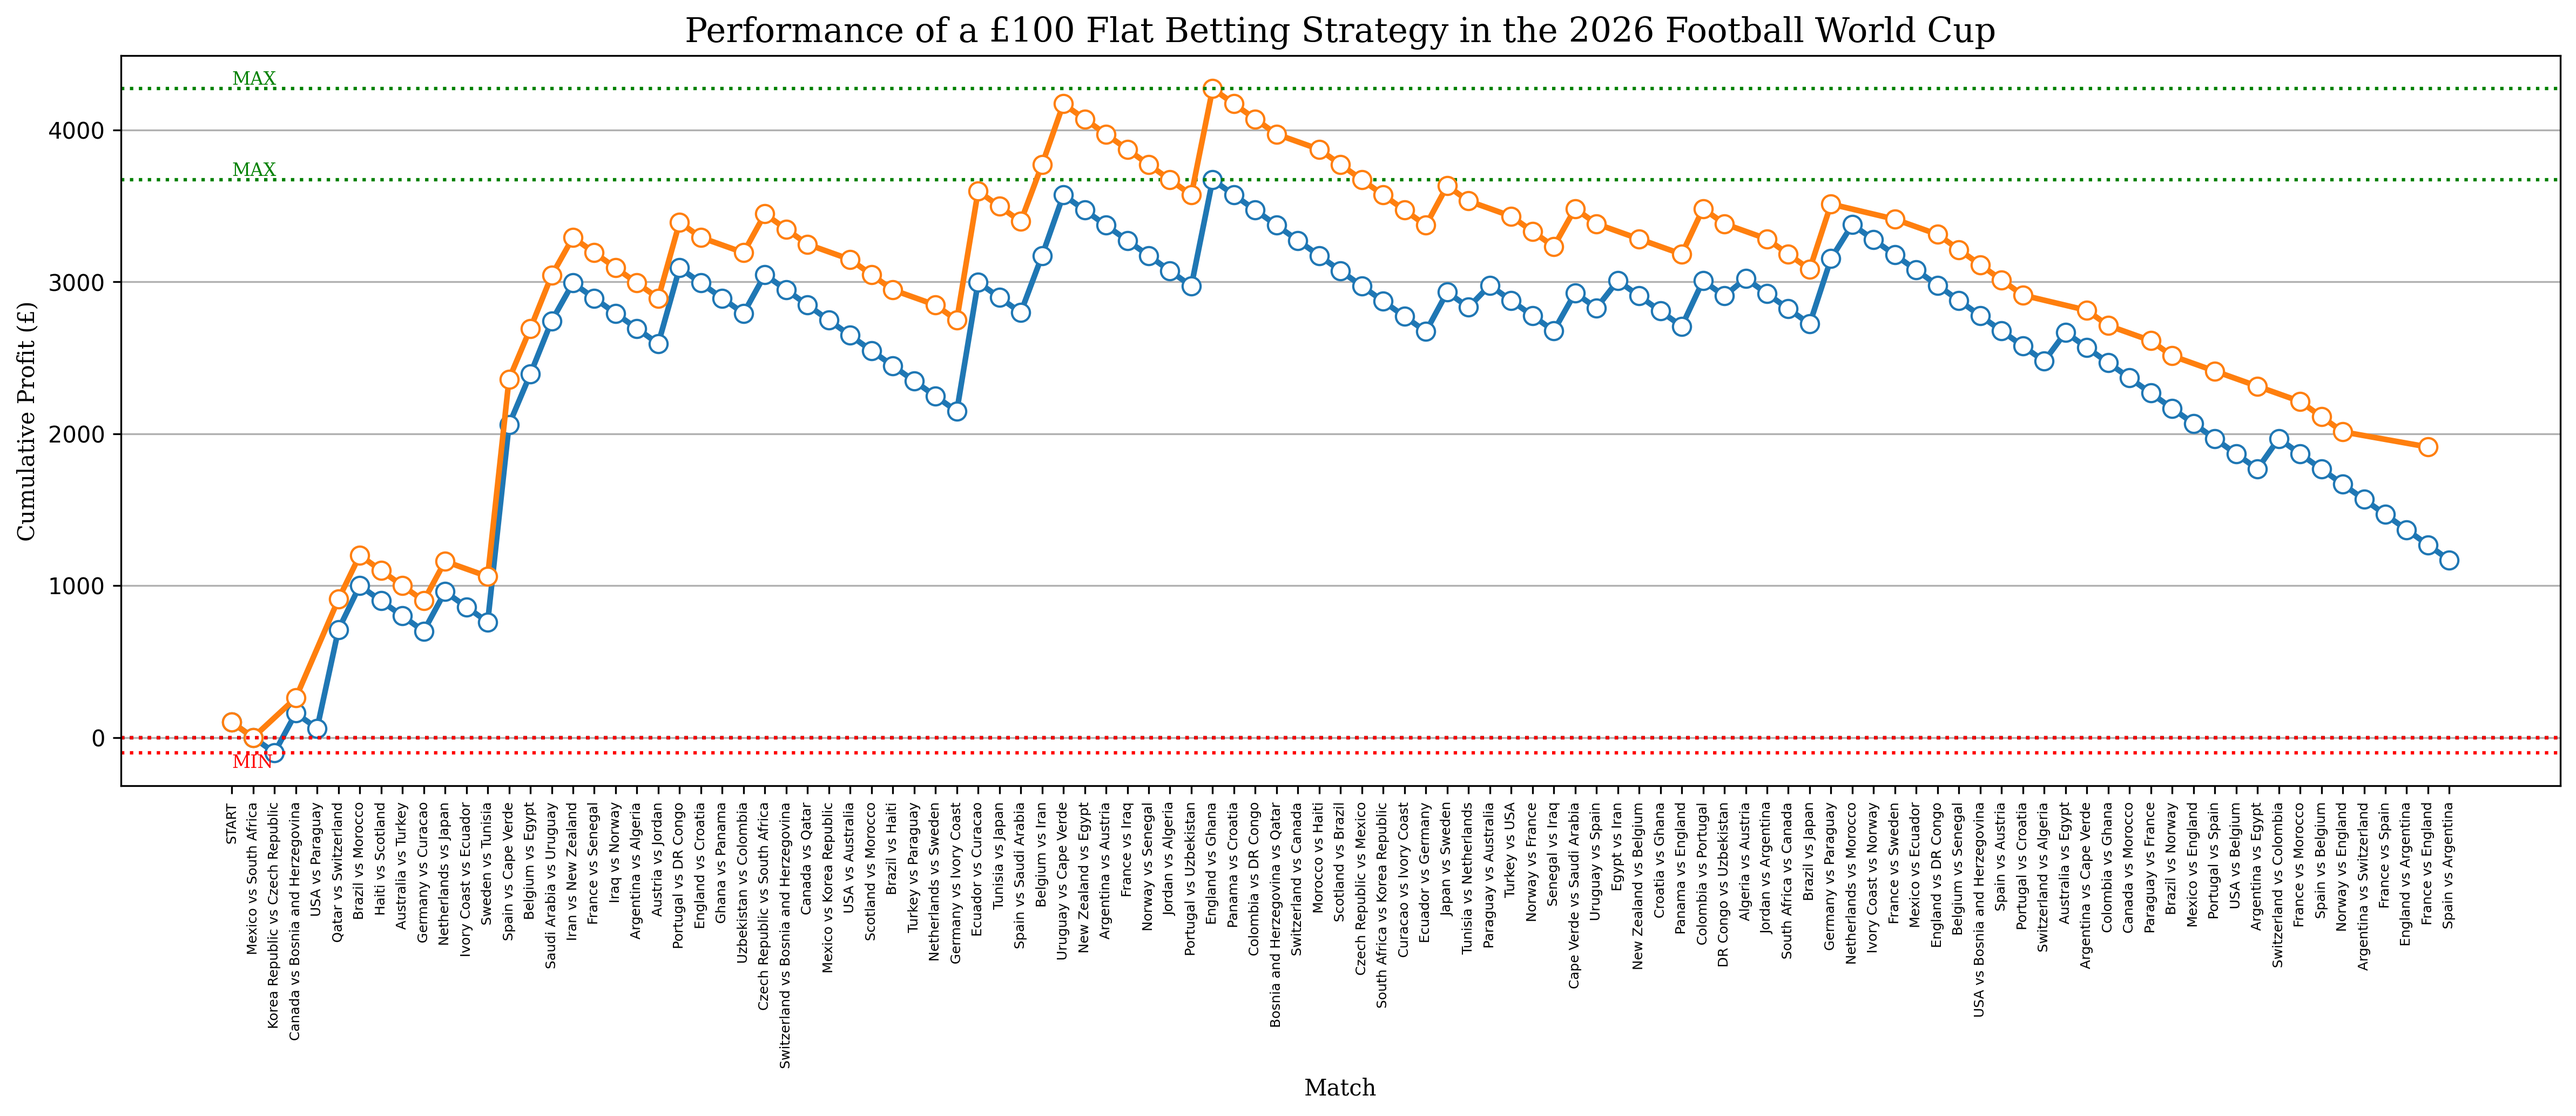
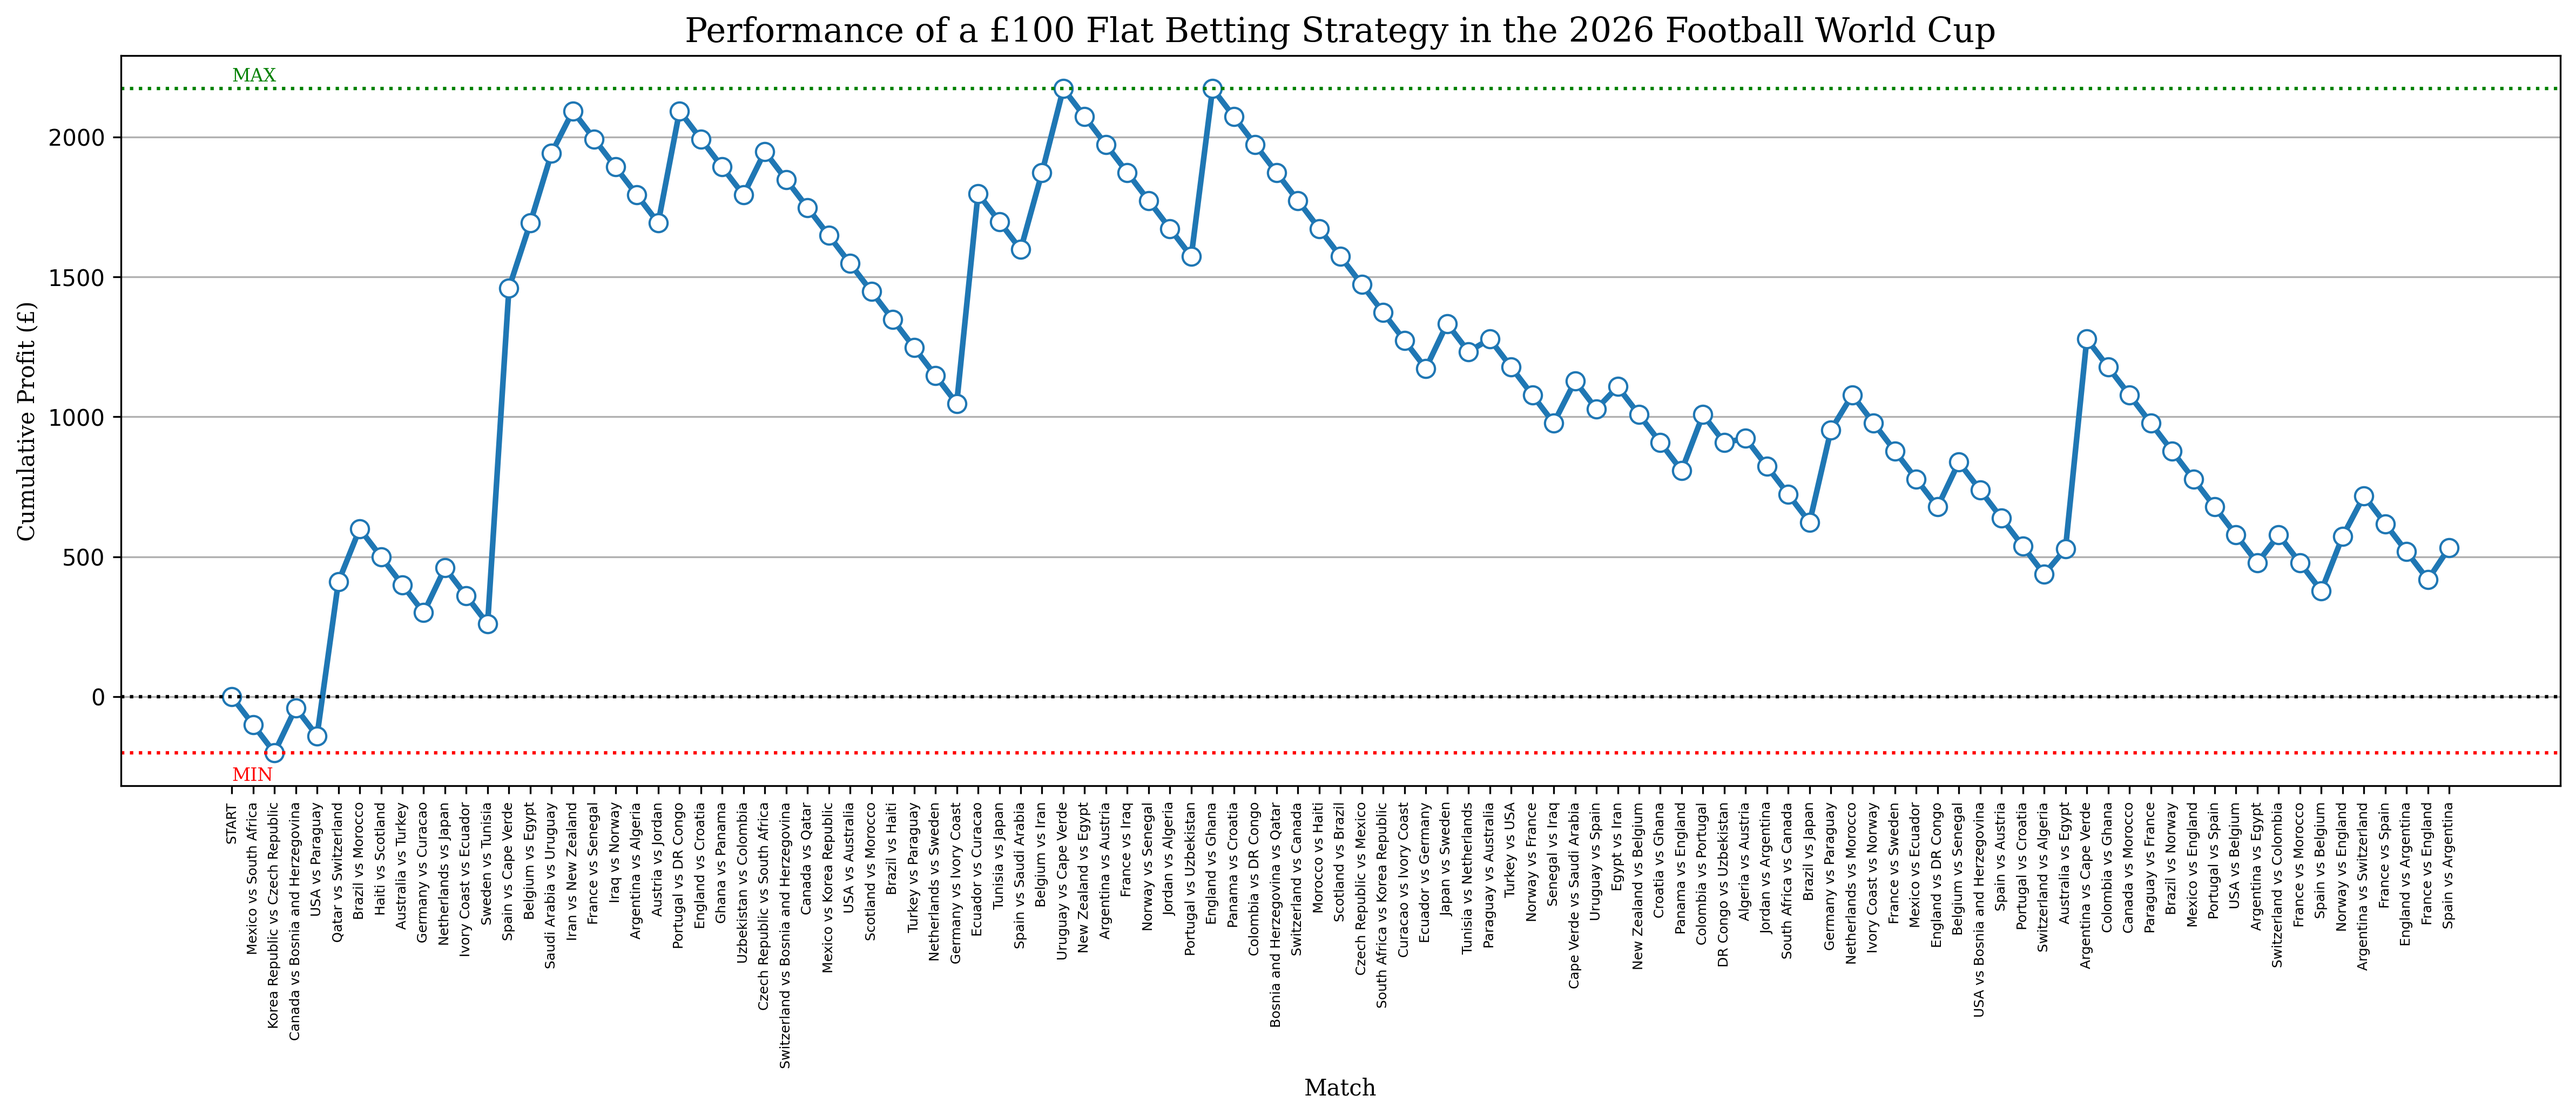
Add files via upload

diff --git a/world_cup_analysis.py b/world_cup_analysis.py
@@ -3,6 +3,7 @@ from bs4 import BeautifulSoup as bs
 import matplotlib.pyplot as plt
 import string
 
+
 # set up
 url_june = 'https://www.skysports.com/fifa-world-cup-scores-fixtures/2026-06-01'
 url_july = 'https://www.skysports.com/fifa-world-cup-scores-fixtures/2026-07-01'
@@ -10,6 +11,7 @@ page_june = requests.get(url_june)
 page_july = requests.get(url_july)
 soup_june = bs(page_june.text, 'html.parser')
 soup_july = bs(page_july.text, 'html.parser')
+
 
 # extract a list of scores
 scoresx_june = soup_june.find_all('span', class_ = 'ui-sport-match-score__score')
@@ -26,12 +28,14 @@ for i in range(len(scoresx_july)):
     check = scoresx_july[i].text.strip()
     if check.isdigit():
         scores_july.append(check)
-        
+       
+       
 # extract a list of teams
 teamsx_june = soup_june.find_all('span', class_ = 'ui-sport-match-score__team')
 teamsx_july = soup_july.find_all('span', class_ = 'ui-sport-match-score__team')
 teams_june = []
 teams_july = []
+
 
 # because website shows upcoming games that don't have a score yet
 for i in range(len(scores_june)):
@@ -42,11 +46,13 @@ for i in range(len(scores_july)):
     check = teamsx_july[i].text.strip()
     teams_july.append(str(check))
 
+
 # check game status
 statusx_june = soup_june.find_all('span', class_ = 'ui-sport-match-score__status')
 statusx_july = soup_july.find_all('span', class_ = 'ui-sport-match-score__status')
 status_june = []
 status_july = []
+
 
 for i in range(len(scores_june)):
     check = statusx_june[i].text.strip()
@@ -62,7 +68,7 @@ for i in range(len(scores_july)):
     else:
         check = check.translate(str.maketrans('', '', string.punctuation))
         status_july.append(check)
-    
+
 
 # combine june and july
 scores = scores_june
@@ -76,16 +82,18 @@ for i in range(len(teams_july)):
 for i in range(len(status_july)):
     status.append(status_july[i])
 
-# extract historic odds (new website)
 
-#url2 = 'https://www.oddsportal.com/football/world/world-championship-2026/results/#/page/2/'
-#page2 = requests.get(url2)
-#soup2 = bs(page2.text, 'html.parser')
-#odds = soup2.find_all('p', class_ = 'height-content !text-black-main next-m:min-w-[100%] flex-center min-h-full min-w-[50px] hover:!bg-gray-medium default-odds-bg-bgcolor border gradient-green-added-border')
-#print(odds[0].text.strip())
-
+# could not extract odds
 odds = [3.5, 2.2, 2.6, 2.4, 6.5, 2.9, 3.6, 2.8, 25, 2.6, 2.1, 2.55, 13, 3.33, 3.5, 2.5, 3.55, 6.5, 3.2, 3.8, 5, 2.9, 2.25, 4.5, 2.55, 16/5, 5.5, 2.3, 17/5, 14/5, 10.5, 49/20, 3.1, 15/4, 8.5, 18/5, 12/1, 15/4, 4, 3, 3.5, 13, 2.5, 3.5, 8, 7, 19/5, 3.1, 21/5, 2.1, 21/4, 19/4, 3, 11/4, 29/4, 3.33, 2.6, 11, 29/20, 3, 5, 2.6, 2.5, 11/4, 9/5, 8, 47/20, 8, 3, 3, 23/20, 8, 2.5, 13/5, 4.3, 9/4, 12/5, 26/5, 183/100, 17/4, 13/5, 433/100, 17/4, 14/5, 23/10, 19/10, 17/2, 17/5, 12/5, 23/4, 29/10, 43/20, 13/5, 12/5, 4/1, 2/1, 3/1, 3/1, 59/20, 49/20, 23/10, 19/10, 333/100, 43/20]
-    
+
+
+# check for errors in data
+assert len(scores) % 2 == 0, 'Uneven number of scores'
+assert len(teams) == len(scores), 'Teams and scores do not match'
+assert len(status) == len(scores) // 2, 'Missing match statuses'
+assert len(odds) == len(scores) // 2, 'Missing betting odds'
+
+
 # create x axis co-ordinates
 team_pairs = []
 for i in range(int(len(teams)/2)):
@@ -94,15 +102,16 @@ for i in range(int(len(teams)/2)):
     team_pair = team_pair.translate(str.maketrans('', '', string.punctuation))
     team_pairs.append(team_pair)
 
+
 # work out if there was a draw and change money accordingly, creating y axis co-ordinates
-money = 100
+money = 0
 ymoney = []
 
 for i in range(int(len(scores)/2)):
     if scores[2*i] == scores[2*i+1]:
-        money = money + 100*odds[i]
-    elif status[i] == 'AET\nExtra Time Full Time':
-        money = money + 100*odds[i]
+        money = money + 100*(odds[i]-1)
+    elif status[i] == 'AET\nAET':
+        money = money + 100*(odds[i]-1)
     else:
         money = money - 100
         
@@ -110,7 +119,7 @@ for i in range(int(len(scores)/2)):
 
 # create start point
 team_pairs.insert(0, 'START')
-ymoney.insert(0, 100)
+ymoney.insert(0, 0)
     
 # create graph
 font1 = {'family':'serif','color':'black','size':15}
@@ -133,39 +142,8 @@ plt.axhline(y=(min(ymoney)), linestyle=':', color='red')
 plt.text(x='START', y=max(ymoney)+27, s='MAX', fontdict = font3)
 plt.text(x='START', y=min(ymoney)-100, s='MIN', fontdict = font3, color='red')
 
+#plt.gcf().set_size_inches(16, 7)
+#plt.tight_layout()
+#plt.savefig("results.png", dpi=300, bbox_inches="tight")
+
 #plt.show()
-
-# second graph
-team_pairs.remove('START')
-money2= 100
-ymoney2 = []
-team_pairs2 = []
-
-for i in range(len(odds)):
-    if odds[i] > 2.45:
-        if scores[2*i] == scores[2*i+1]:
-            money2 = money2 + 100*odds[i]
-        elif status[i] == 'AET\nExtra Time Full Time':
-            money2 = money2 + 100*odds[i]
-        else:
-            money2 = money2 - 100
-        
-        ymoney2.append(int(money2))
-        team_pairs2.append(team_pairs[i])
-
-team_pairs2.insert(0, 'START')
-ymoney2.insert(0, 100)
-
-plt.plot(team_pairs2, ymoney2, ms=8, marker='o', mfc = 'white', linewidth = 2.5)
-
-plt.axhline(y=0, linestyle=':', color='black')
-plt.axhline(y=(max(ymoney2)), linestyle=':', color='green')
-plt.axhline(y=(min(ymoney2)), linestyle=':', color='red')
-plt.text(x='START', y=max(ymoney2)+27, s='MAX', fontdict = font3)
-#plt.text(x='START', y=min(ymoney2)-100, s='MIN', fontdict = font3, color='red')
-
-plt.gcf().set_size_inches(16, 7)
-plt.tight_layout()
-plt.savefig("results.png", dpi=300, bbox_inches="tight")
-
-plt.show()
